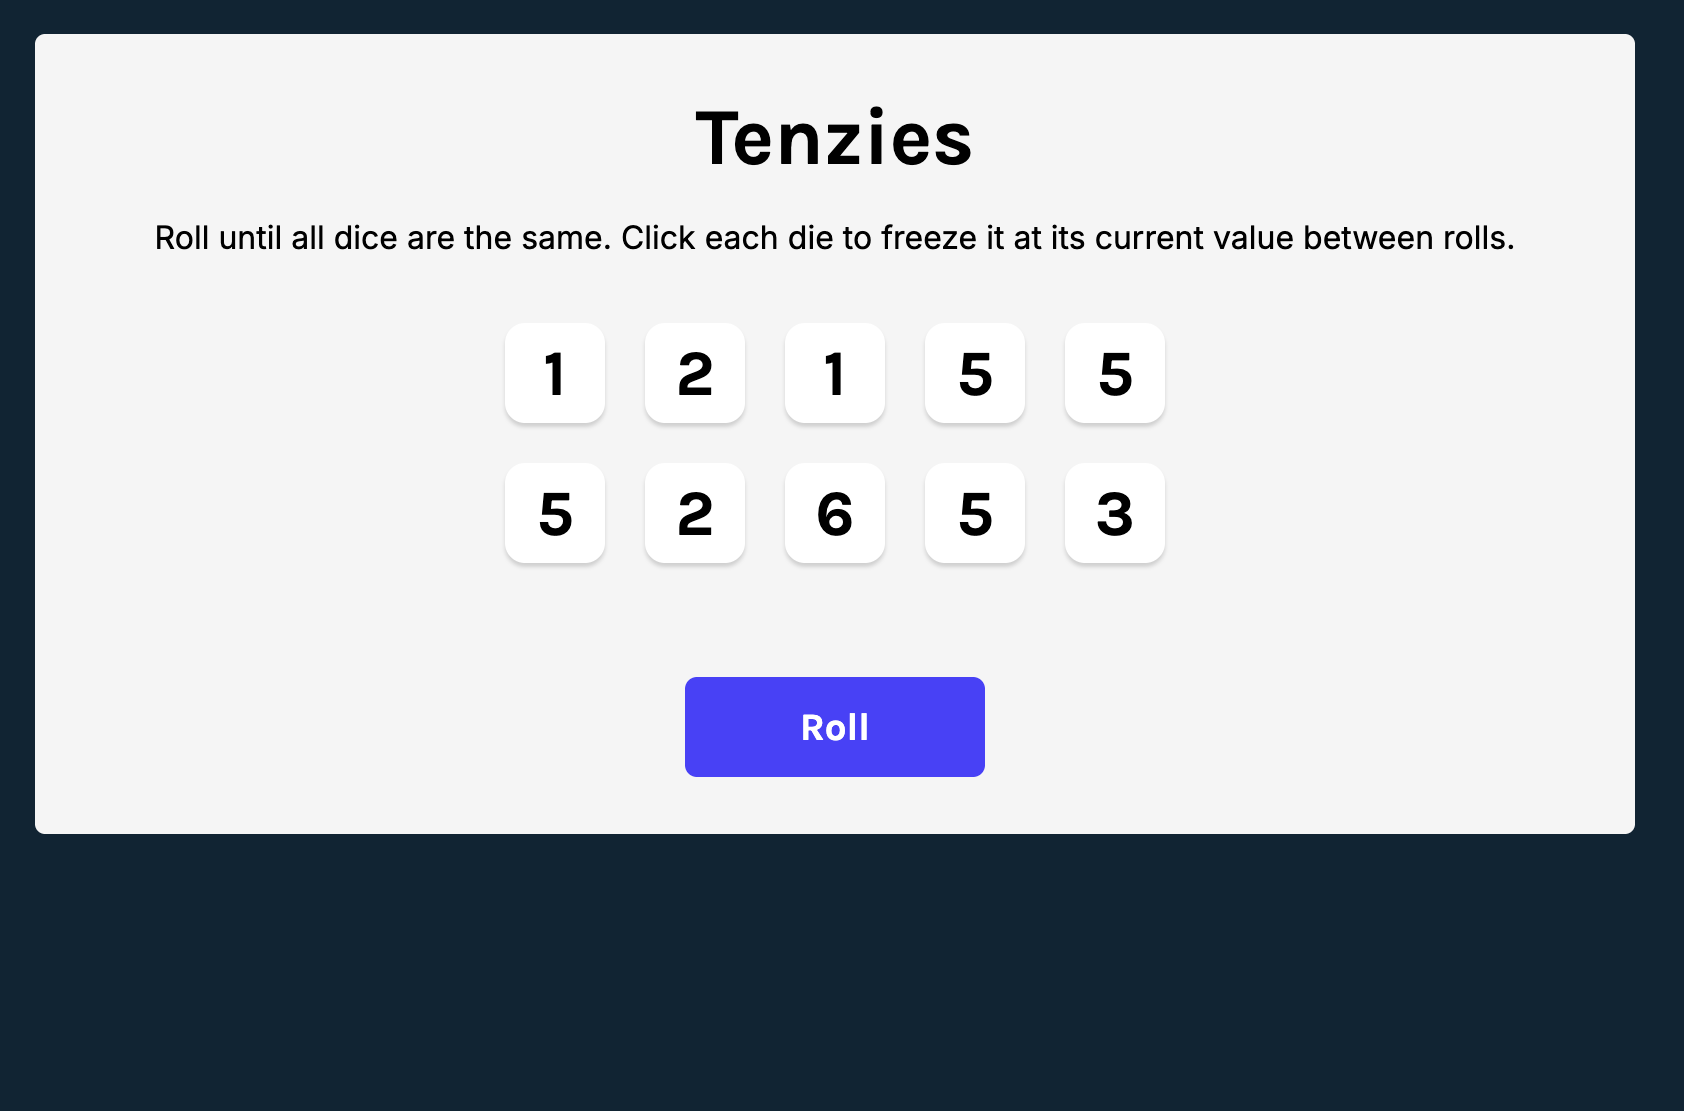
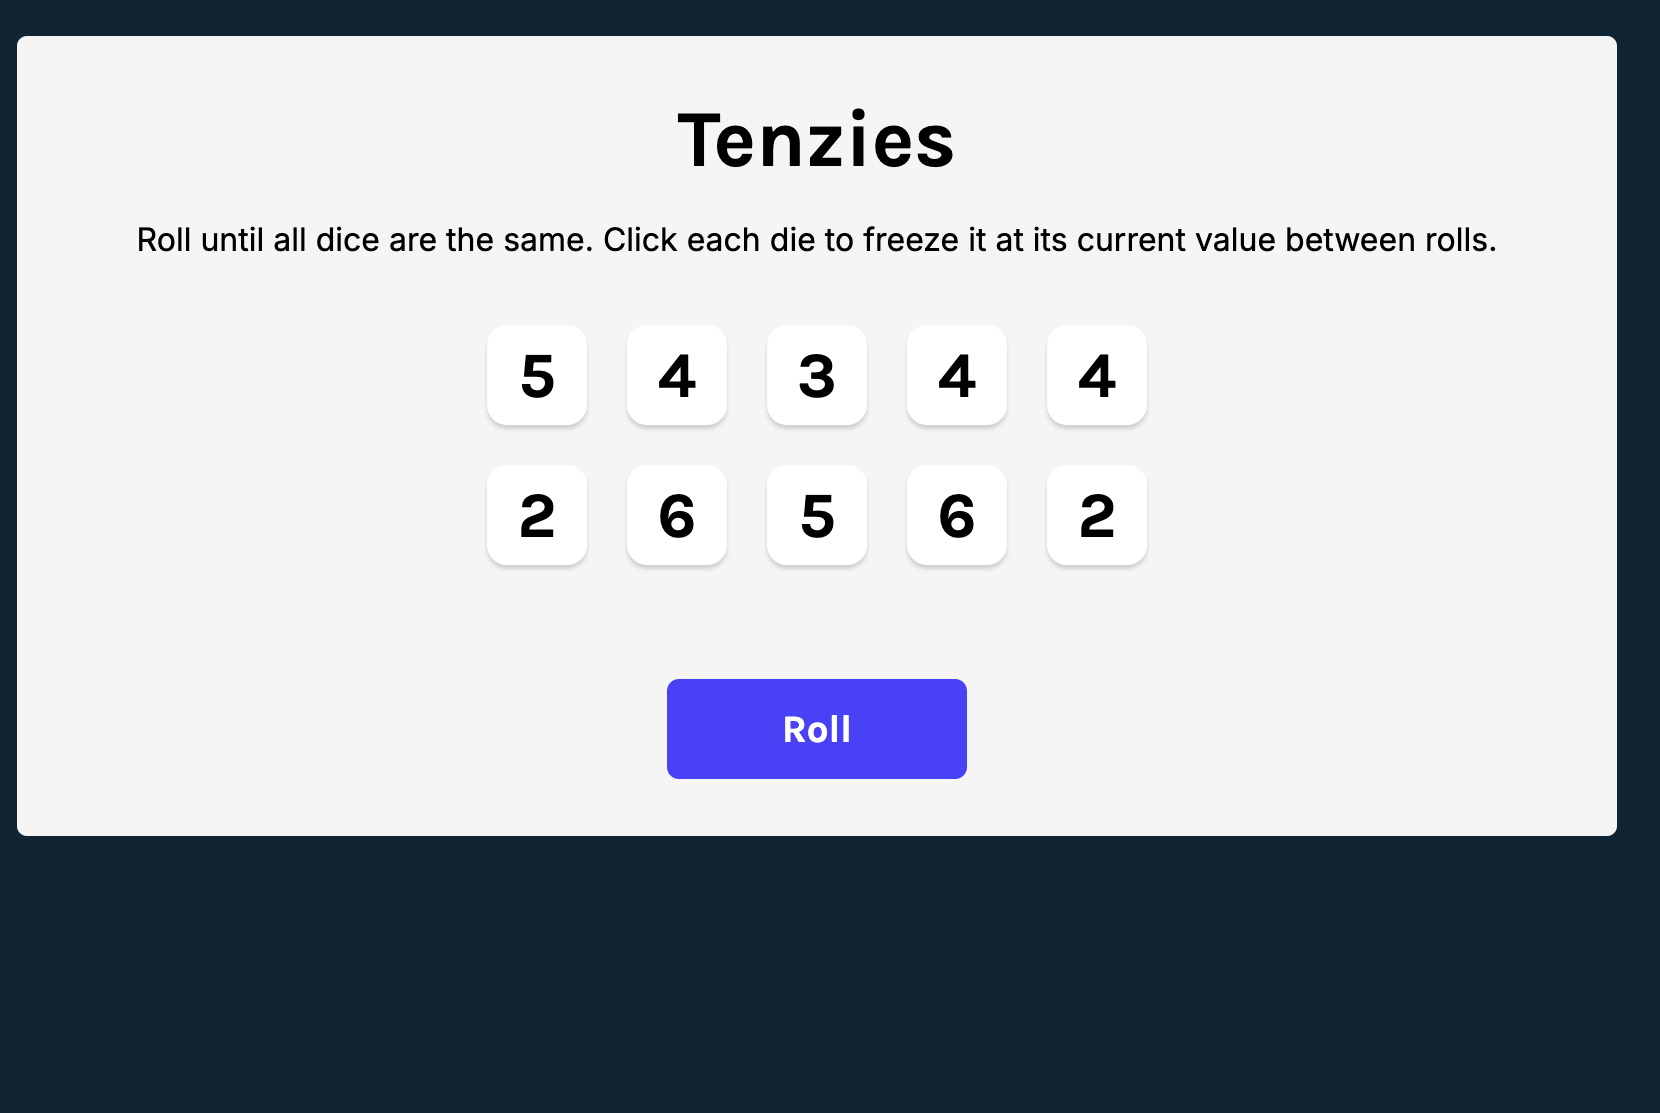
NWF Strategies Added

diff --git a/index.html b/index.html
@@ -108,6 +108,27 @@
               </article>
               <article>
                 <a
+                  href="https://nwf-website.vercel.app/"
+                  target="_blank"
+                  class="image"
+                  ><img src="images/nwfwebsite.jpg" alt=""
+                /></a>
+                <h3 class="major">NWF Strategies Website</h3>
+                <p>
+                  Modern React and TypeScript rebrand of the NWF Strategies
+                  website featuring a responsive design, reusable components,
+                  and an improved user experience that increased engagement by
+                  18%.
+                </p>
+                <a
+                  href="https://nwf-website.vercel.app/"
+                  target="_blank"
+                  class="special"
+                  >See more</a
+                >
+              </article>
+              <article>
+                <a
                   href="https://rad-cendol-1ec28a.netlify.app/"
                   target="_blank"
                   class="image"
@@ -120,26 +141,6 @@
                 </p>
                 <a
                   href="https://rad-cendol-1ec28a.netlify.app/"
-                  target="_blank"
-                  class="special"
-                  >See more</a
-                >
-              </article>
-              <article>
-                <a
-                  href="https://nwf-website.vercel.app/"
-                  target="_blank"
-                  class="image"
-                  ><img src="images/nwfwebsite.jpg" alt=""
-                /></a>
-                <h3 class="major">Blog Website</h3>
-                <p>
-                  The blog website project is a fully responseive three page
-                  website replicating a blog with a signup/login system
-                  implemented in it
-                </p>
-                <a
-                  href="https://nwf-website.vercel.app/"
                   target="_blank"
                   class="special"
                   >See more</a